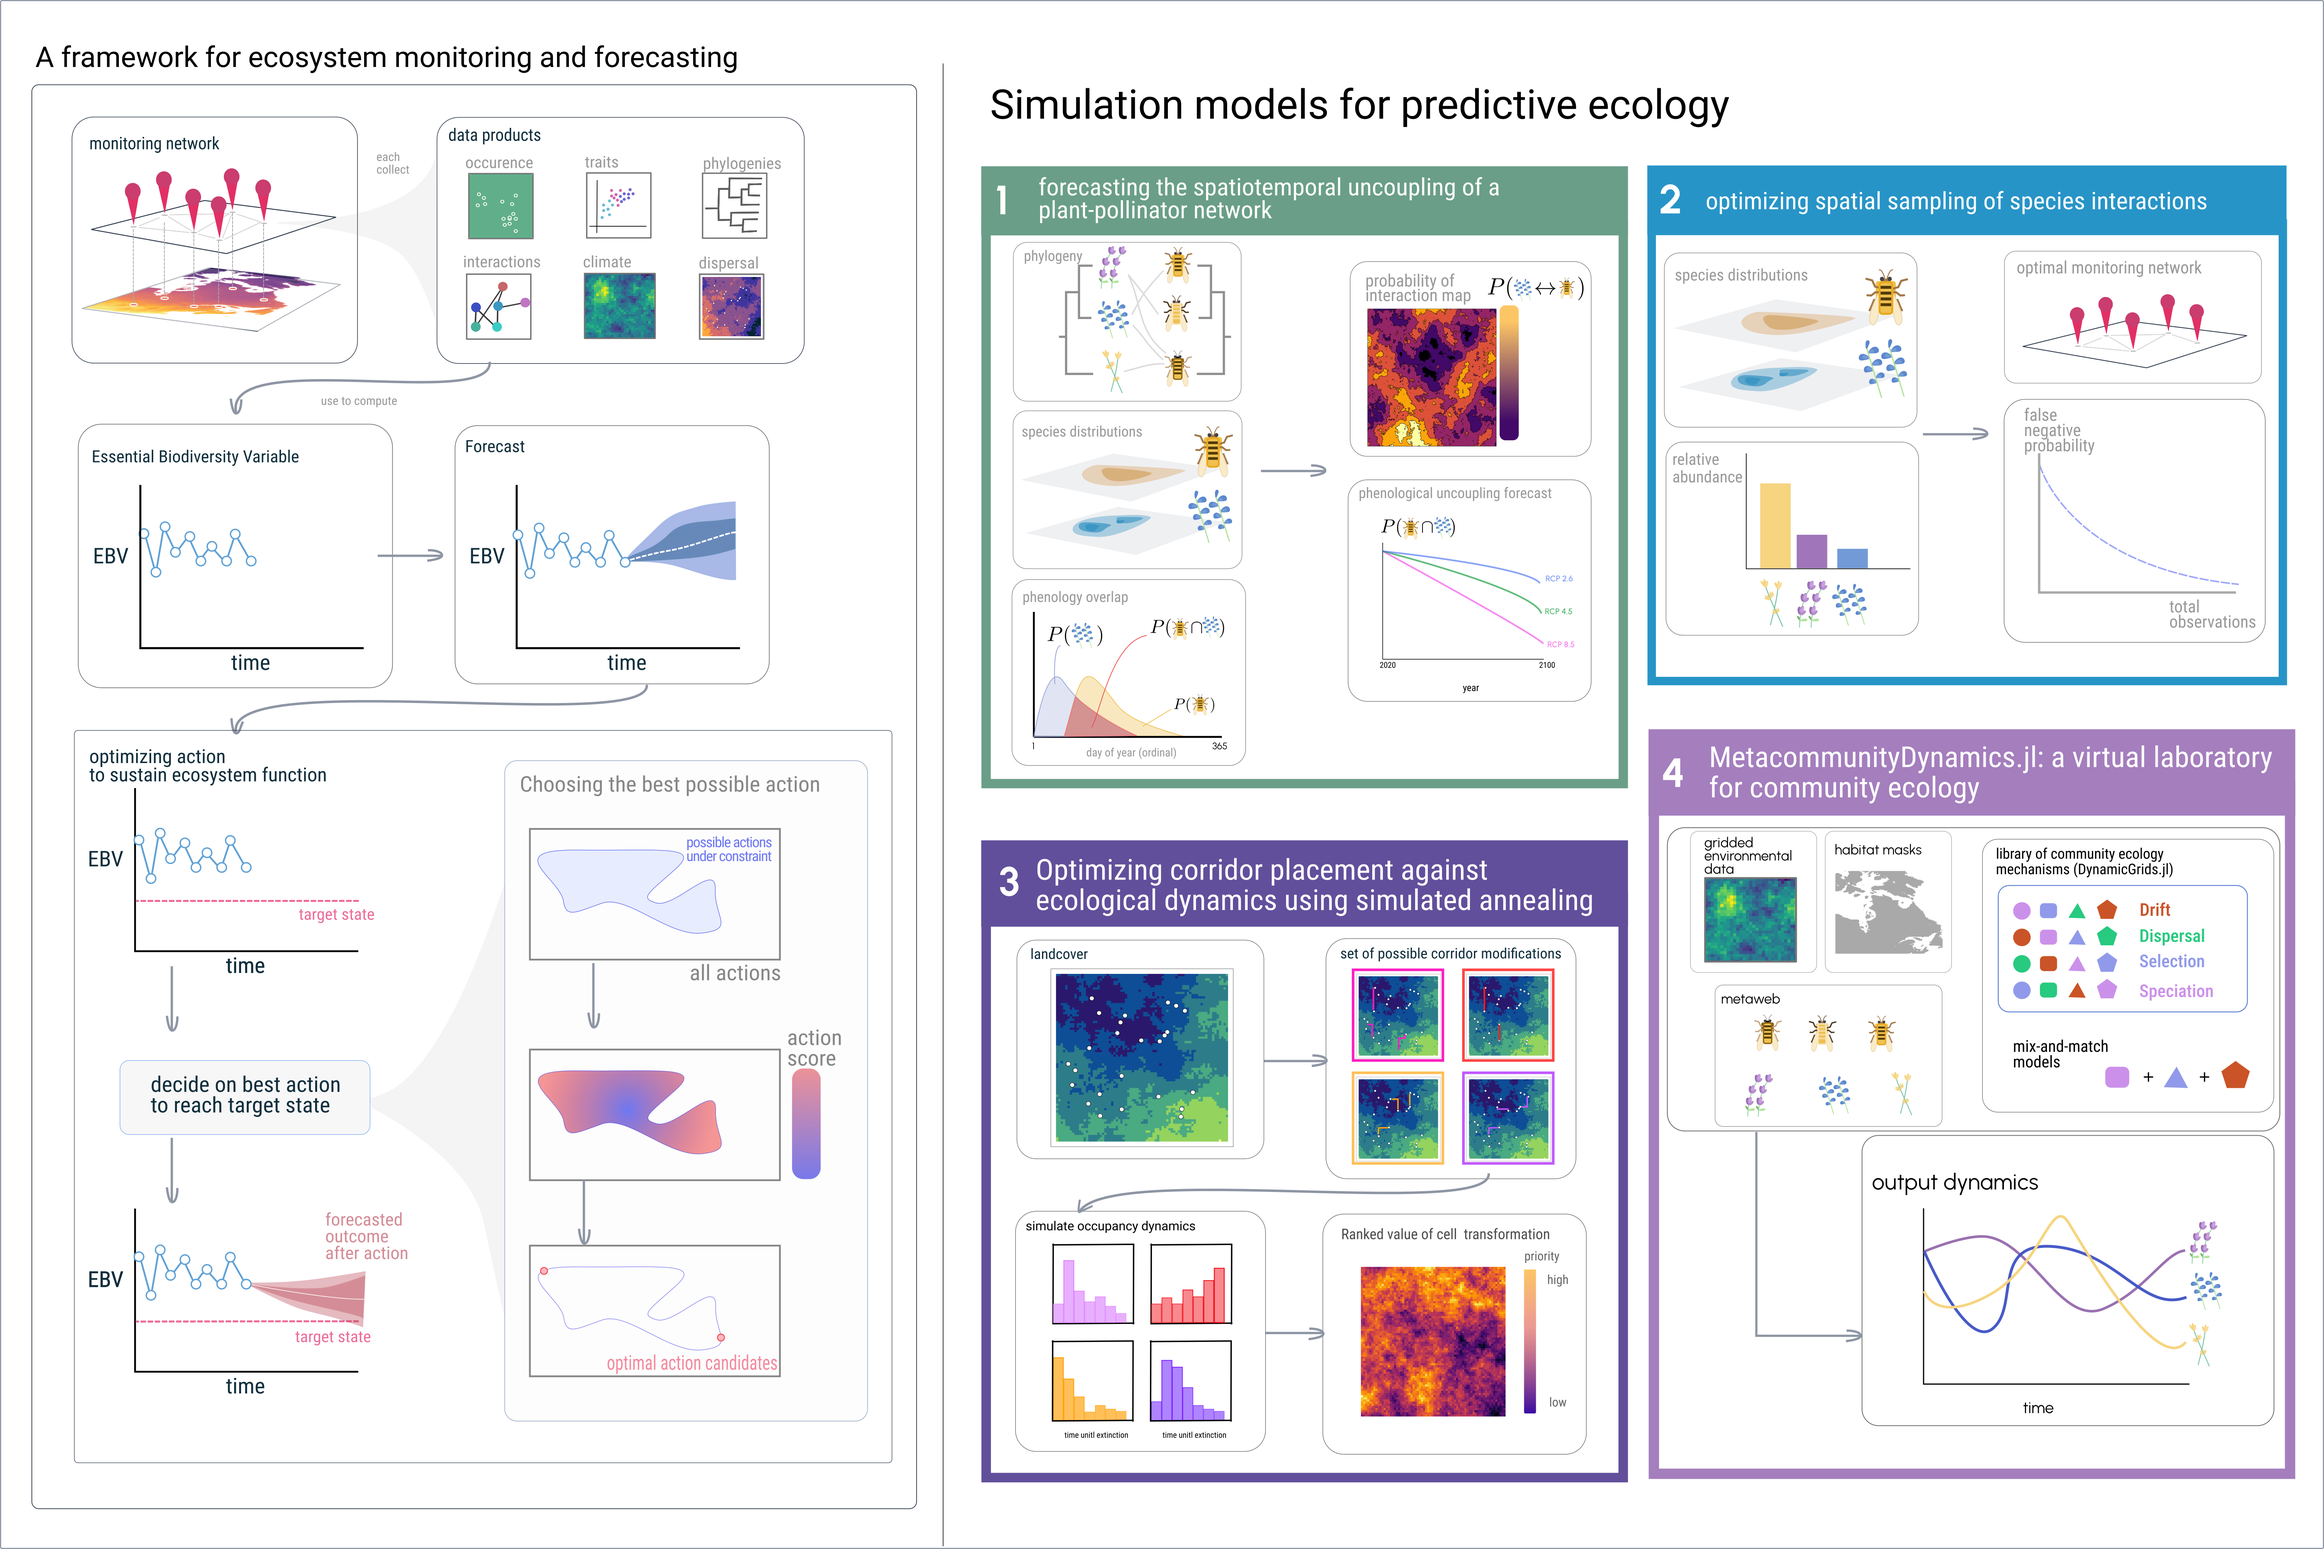
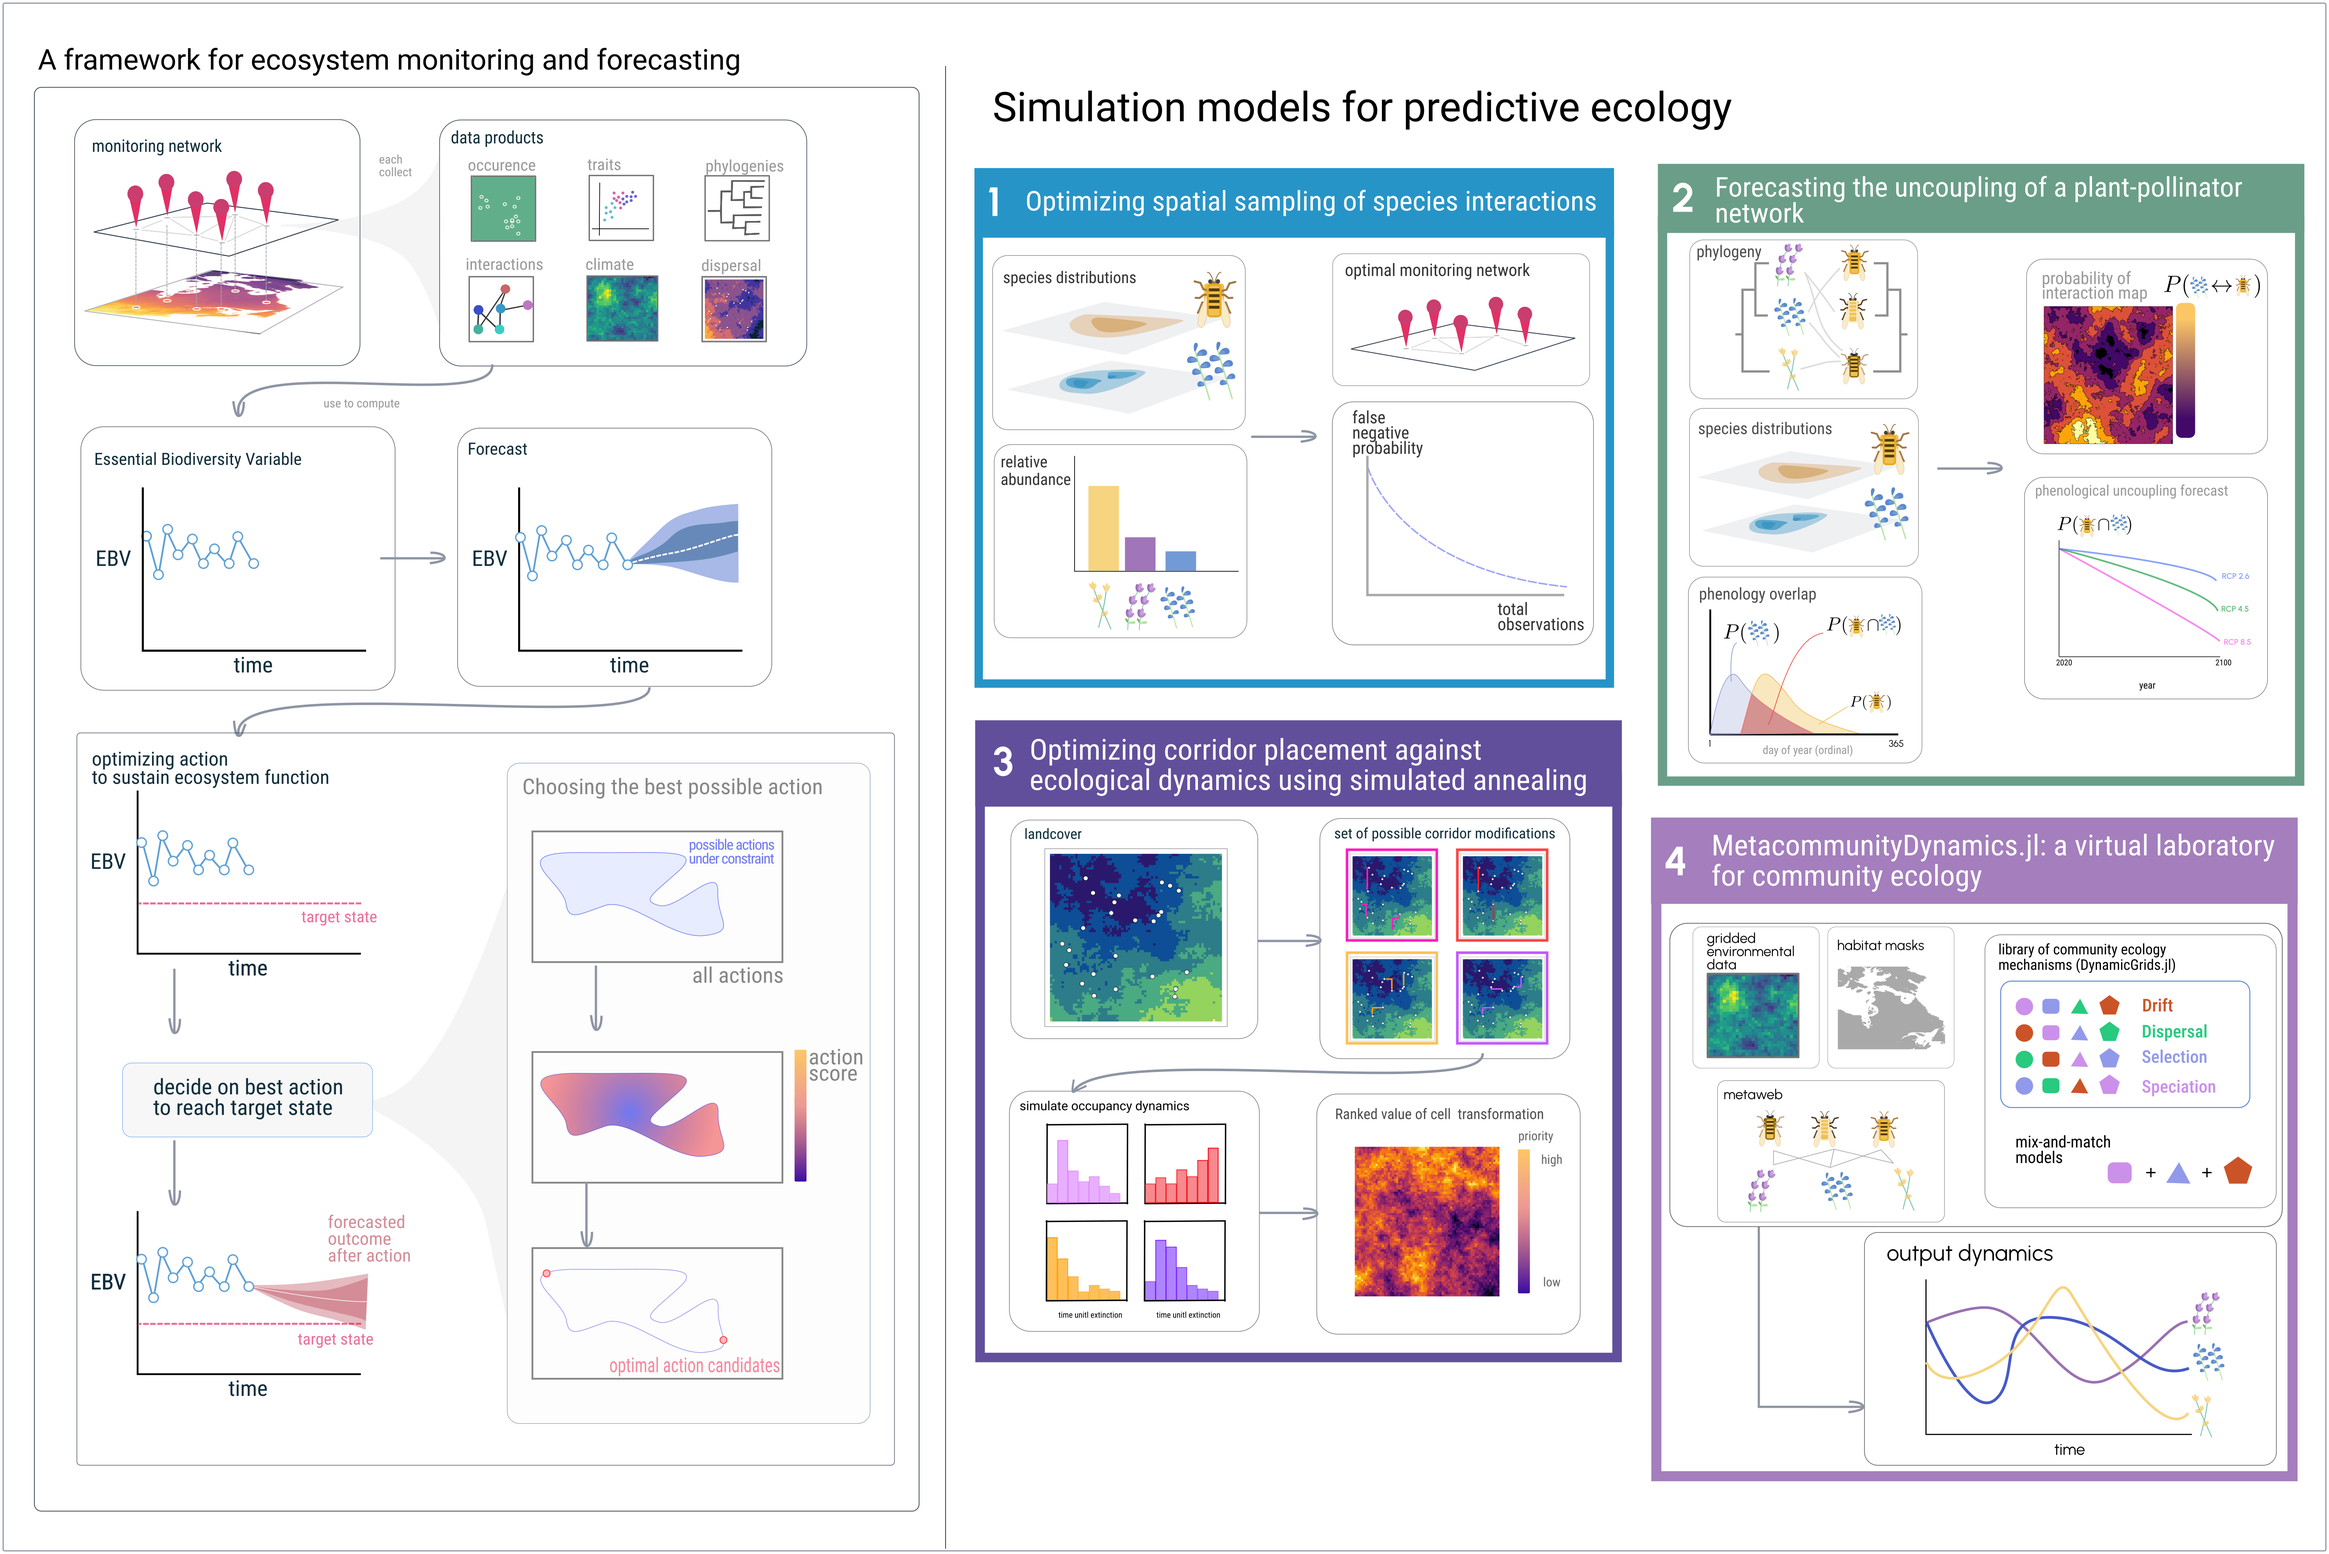
up

diff --git a/README.md b/README.md
@@ -7,8 +7,7 @@ terrain and oceans, and both agricultural and urban development has
 rapidly reshaped the Earth's land cover. These the bulk of this change
 has occurred within the last several hundred years, a geological
 instant, inducing a sudden shift in conditions to Earth's climate and
-biosphere. As a result, predicting how ecosystems will change in the
-future, _ecological forecasting_, and then using these forecasts to
+biosphere. As a result _ecological forecasting_---TK DEFINITION ---and then using these forecasts to
 make decisions to mitigate the negative consequences of this change on
 ecosystems, their functioning, and the services they provide to humans
 has emerged as an imperative for ecology and environmental science
@@ -23,6 +22,8 @@ developing global systems for _ecosystem monitoring_
 biodiversity data in manner that makes detecting and predicting change
 more possible than at the moment [@Urban2021CodLif].
 
+
+***TK add mention of interaction prediction here as they effect dynamics***
 The second major challenge in ecological forecasting is that the
 underlying dynamics of most ecological processes are unknown and
 instead must be inferred from this (sparse) data. Much of the history
@@ -99,8 +100,86 @@ from a monitoring network to forecasts to mitigation strategy
 
 ![thesis concept](./figures/thesisconcept.png){#fig:thesis}
 
+**TK final paragraph**
+> Set up the key research challenges in this field so that the reader understands where your thesis fits in.
+> Finish the introduction with a short summary of what you will do across your chapters. This is the bridging paragraph to your chapters.
 
-# Chapter One: Forecasting the spatial uncoupling of a plant-pollinator network
+The primary reserach challenges this thesis addresses: how do
+we design ecological samples? Data assimilation pipeline.
+How do we propgate uncertainty from these samples into forecasts?
+More details on pipeline flow 
+
+
+
+# Chapter One: Optimizing spatial sampling of species interactions
+
+## Objective 
+
+This chapter uses simulation models to investigate the relationship
+between species relative abundance, sampling effort, and probability
+of observing an interaction between species in order to aid in the design
+of samples of ecological interactions, and to provide a null expectation 
+of false-negative probability for a dataset of a given size. 
+Further it then proposes a
+method for optimizing the spatial sampling locations to maximize the
+probability of detecting an interaction between two species given a fixed 
+number of total of observations, and the distributions of each species.
+This addresses the optimization of monitoring
+network part of the flow from data to mitigation at the top of
+@fig:thesis, left. As explored in the previous chapter, there are
+false-negatives in interaction data. However, there is more than one
+way to observe a false-negative when sampling interactions.
+@fig:fnrtaxonomy shows a taxonomy of false-negatives in occurrence,
+co-occurrence, and interaction data.
+
+![A taxonomy of occurrence, co-occurrence, and interaction false negatives in data](./figures/ch2.png){#fig:fnrtaxonomy}
+
+## Methods
+
+The first result is to compute a null expectation of the probability
+of an interaction false-negative as a function number of total
+observations of individuals of _any species_. This is done by simulating
+the process of observation, where the probability of observing a given
+species is its relative abundance. We use a
+log-normal distribution of relative abundance [@Hubbell2001UniNeu] and
+simulating the process of observation on food-webs generated using the
+niche model [@Williams2000SimRul] with connectance parameterized by
+the flexible-links model [@MacDonald2020RevLin].
+
+An example of this
+relation for networks with varying spceies richness is shown in
+@fig:fnr.
+
+We then go on to testing some assumptions of this neutral model with
+empirical data. Primarily that we analytically show that our neutral
+model, if anything, underestimates the probability of false-negatives
+if there are positive associations between species co-occurrence, and
+we show these positive associations exist in two sets of spatially
+replicated samples of interaction networks [@Hadfield2014TalTwo;
+@Thompson2000ResSol; @fig:posassoc]---further I'm planning to add the
+field data from the previous chapter into this analysis once
+available.
+
+## Results
+
+![foo](./figures/ch2_fnr.png){#fig:fnr}
+
+
+![Demonstrates positive associations in co-occurrence](./figures/positiveassociations.png){#fig:posassoc}
+
+## Discussion 
+
+
+Finally this chapter proposes a simulated annealing method to optimize
+the a set of $n$ points in space to maximize the probability of detecting
+an interaction between two species $a$ and $b$ with _known_ distributions $D_a$, $D_b$.
+
+## Progress 
+
+This chapter is mostly complete. The only remaining work is the implementation of simulated annealing optimization process.
+
+
+# Chapter Two: Forecasting the spatial uncoupling of a plant-pollinator network
 
 Interactions between plants and pollinators form networks which
 together structure the "architecture of biodiversity"
@@ -123,7 +202,8 @@ Colorado.
 how they can be synthesized. Right: The flow from data to interaction
 prediction using a few different interaction prediction models.](./figures/ch1.png)
 
-## Data
+
+## Methods
 
 The data for this chapter is derived from multiple sources that can be
 split into four categories. (1) Field data from three different field
@@ -138,8 +218,6 @@ forecasting bioclimatic variables from CHELSA. (4) Phylogenies for
 both bee and flower species derived from NCBI GenBank barcodes for
 mitochondrial COI (bumblebees) and chloroplast rbcL (flowers).
 
-## Methods
-
 As the data we have is spatially sparse and likely to contain many
 interaction "false-negatives" [@Strydom2021RoaPre], we begin by
 predicting a metaweb of interactions across Colorado as they exist _in
@@ -153,7 +231,7 @@ species will change under the CMIP6 consensus climate forecast
 [@Karger2017CliHig], and then finally quantify the reduction in
 spatial between species for which there is a predicted interaction.
 
-## Preliminary Results
+## Results
 
 Here we show the in-progress work on the prerequisites for the
 analysis outlined above: phylogenies for both plant and bee species
@@ -164,51 +242,10 @@ example shown in @fig:example_sdm).
 
 ![Example SDM for _Archillea millefolium_](./figures/sample_sdm.png){#fig:example_sdm}
 
-# Chapter Two: Optimizing spatial sampling of species interactions
+## Progress
 
-This chapter uses simulation models to investigate the relationship
-between species relative abundance, sampling effort, and probability
-of observing an interaction between species, and further proposes a
-method for optimizing the spatial sampling locations to maximize the
-probability of detecting an interaction between two species given
-their distributions. This addresses the optimization of monitoring
-network part of the flow from data to mitigation at the top of
-@fig:thesis, left. As explored in the previous chapter, there are
-false-negatives in interaction data. However, there is more than one
-way to observe a false-negative when sampling interactions.
-@fig:fnrtaxonomy shows a taxonomy of false-negatives in occurrence,
-co-occurrence, and interaction data.
-
-![A taxonomy of occurrence, co-occurrence, and interaction false negatives in data](./figures/ch2.png){#fig:fnrtaxonomy}
-
-The first result is to compute a null expectation of the probability
-of an interaction false-negative as a function number of total
-observations of individuals of _any species_. This is done by  using a
-log-normal distribution of relative abundance [@Hubbell2001UniNeu] and
-simulating the process of observation on food-webs generated using the
-niche model [@Williams2000SimRul] with connectance parameterized by
-the flexible-links model [@MacDonald2020RevLin]. An example of this
-relation for networks with varying spceies richness is shown in
-@fig:fnr.
-
-![foo](./figures/ch2_fnr.png){#fig:fnr}
-
-We then go on to testing some assumptions of this neutral model with
-empirical data. Primarily that we analytically show that our neutral
-model, if anything, underestimates the probability of false-negatives
-if there are positive associations between species co-occurrence, and
-we show these positive associations exist in two sets of spatially
-replicated samples of interaction networks [@Hadfield2014TalTwo;
-@Thompson2000ResSol; @fig:posassoc]---further I'm planning to add the
-field data from the previous chapter into this analysis once
-available.
-
-![Demonstrates positive associations in co-occurrence](./figures/positiveassociations.png){#fig:posassoc}
-
-Finally this chapter proposes a simulated annealing method to optimize
-the a set of $n$ points in space to maximize the probability of detecting
-an interaction between two species $a$ and $b$ with _known_ distributions $D_a$, $D_b$.
-
+I have a phylogeny and SDMs for all the species. 
+Waiting on data agreement with RMBL. 
 
 # Chapter Three: Optimizing corridor placement against ecological dynamics
 
@@ -255,6 +292,8 @@ are already connected in the MST.
 
 # Chapter Four: MetacommunityDynamics.jl: a virtual laboratory for community ecology
 
+## Objective
+
 The final chapter consists of a collection of modules in the Julia language
 for different aspects of community ecology, including most of the code
 used for the preceding chapters. Indeed `MetacommunityDynamics.jl`
@@ -264,11 +303,44 @@ packages within the `EcoJulia` organization, including several to
 which I have contributed. A diagram showing the relation between these
 packages is shown in @fig:software.
 
+We need tools to generate synthetic data from a _known_ set of mechanisms
+and parameters to test our methods for parameter inference and forecasting on 
+this _known_ system to assess the effectiveness of these inference and forecasting
+methods. 
+
+
+## Methods
+
+Software is structured based on DG.jl [@cite] and Dispersal.jl [@cite].
+
+Uses methods from EN.jl to generate metawebs, or can use empirical networks
+from Mangal.jl [@cite]. 
+
+Framework based on [@Velland2010ConSyn], processes divided into four categories:
+selection, dispersal, drift, speciation. 
+
+
+## Results
+
+![Sample output of simulated food web dynamics from MetacommunityDynamics.jl ](./figures/foodwebtraj.png)
+
+## Progress
+
+The software as it exists is capable of simulating the biomass dynamics of
+arbitrarily large food-webs using Lotka-Volterra, Holling Type-II, or Holling Type-III functional responses. It currently has methods to implement Guassian drift, and verious forms of dispersal via Dispersal.jl. 
+Also occupancy dynamics for Levins metapopulations [@levins1967], and spatially explicit Hanski metapopulatoins [@hanski2001].
+This is most of what needs to exist for the preceding chapters. 
+
+Selection on arbitrary environmental variables in progress, as well as traits.
+
+
+
+
 ![The structure of the software libraries used as part of MCD.jl](./figures/ch4.png){#fig:software}
 
-# Conclusion
+# Discussion
 
-
+> Describing expected/anticipated contributions of the thesis. Very important for QE. This should be at least half a page. 
 
 
 

diff --git a/reading_notes/food_webs_mccann.md b/reading_notes/food_webs_mccann.md
@@ -44,3 +44,5 @@ Most of this book is about these metrics.
 > In nature, when we study a complex system, it is almost always immediately essential that we reduce the dimensions of the problem to something tractable. When we can do this with limited loss of information, we have made considerable progress. At a level, this is the job of a scientist: to tell a mostly true story of a complex natural system using the barest essentials or fewest dimensions.
 
 
+## Chapter 3 - Motifs and Modules
+
